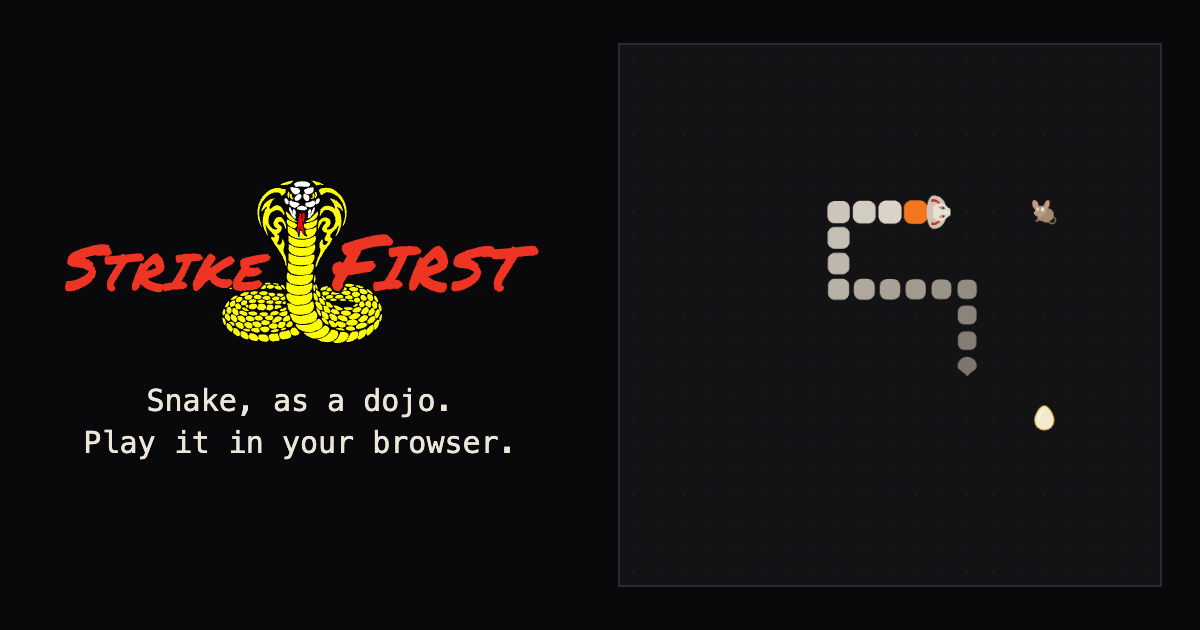
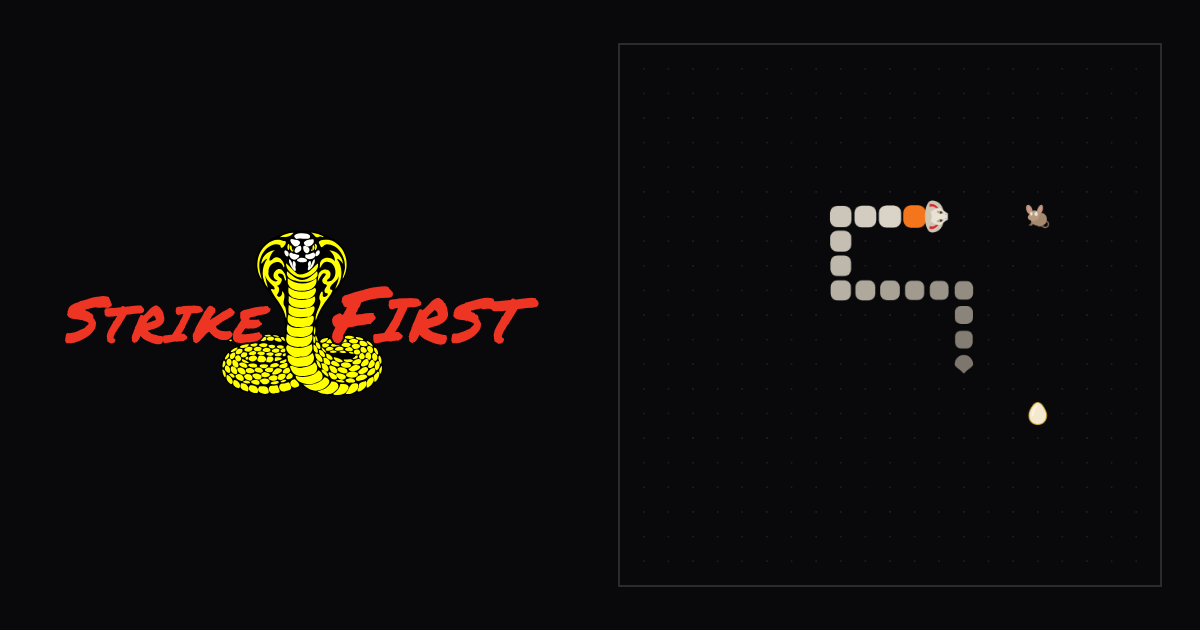
Give a challenge its own link preview, and the game a sharper one
A pasted link showed the same card whether it was the game or a dare, and
a link preview is read from the page's tags without running it, so the
game's own page can never tell the two apart. Challenge links now go
through challenge/, a page that carries the challenge card and forwards
here with the same ?vs=. A bare ?vs= link still opens a challenge, so
links already sent keep working.

The message beside it names the dojo you fight for, since the rivalry is
the reason to click; it comes from this device rather than the run on the
board, because a share sheet has to open straight from the press and a
fetch first would lose that. The card's image loses its tagline: the words
under it said the same thing, and at the size a phone shows a card the
line was too small to read.

Copy and artwork on screens that already exist, so v1.0.3 is a patch.

diff --git a/index.html b/index.html
@@ -13,13 +13,13 @@
 <link rel="apple-touch-icon" href="apple-touch-icon.png">
 <meta property="og:type" content="website">
 <meta property="og:site_name" content="Strike First">
-<meta property="og:title" content="Strike First — Browser Snake Game">
-<meta property="og:description" content="Play snake free in your browser, with a dojo twist. Eat eggs, chase mice, dodge rotten ones and earn your belt.">
+<meta property="og:title" content="🐍 Strike First: Karate snake game in your browser">
+<meta property="og:description" content="Pick a dojo, chase rewards, earn your belt, challenge friends.">
 <meta property="og:url" content="https://karinnielsen.github.io/strike-first/">
 <meta property="og:image" content="https://karinnielsen.github.io/strike-first/og-image.png">
 <meta property="og:image:width" content="1200">
 <meta property="og:image:height" content="630">
-<meta property="og:image:alt" content="The Strike First cobra crest and the line &quot;Snake, as a dojo. Play it in your browser.&quot; beside a game board, with a snake wearing an orange belt, a mouse and an egg.">
+<meta property="og:image:alt" content="The Strike First cobra crest beside a game board, with a snake wearing an orange belt, a mouse and an egg.">
 <meta name="twitter:card" content="summary_large_image">
 <style>
   :root {
@@ -1335,7 +1335,7 @@ const ROWS = (canvas.height - 2 * BOARD_BLEED) / CELL;    // 21 rows down
 // Single source of truth for the version. Bump this, add a CHANGELOG entry,
 // update the Current version line in README.md, and tag the commit - those
 // four go together, always.
-const VERSION = '1.0.2';
+const VERSION = '1.0.3';
 // The version line also says which board you are on whenever it isn't the
 // real one. Bone rather than the dim grey around it, because that carries
 // information: it is the difference between a score that counts and one that
@@ -5055,10 +5055,16 @@ function showBoard() {
 // The link is built from wherever the page is served, so a link made on a
 // local copy opens the local copy, and its sandbox board. An id the board
 // doesn't have - it was wiped - just means no challenge.
+//
+// The link goes through challenge/, a page that only carries the challenge's
+// preview card and forwards here with the same ?vs=. A link preview is read
+// from the page's tags without running it, so this page's tags could never
+// tell a challenge from the game. A bare ?vs= link still works.
 
 // The link for a run. Pure.
 function challengeUrl(where, runId) {
-  return `${where.origin}${where.pathname}?vs=${runId}`;
+  const folder = where.pathname.replace(/[^/]*$/, '');
+  return `${where.origin}${folder}challenge/?vs=${runId}`;
 }
 
 // The run a link points at, or null. Pure.
@@ -5126,9 +5132,13 @@ function showChallenge() {
 // What a challenge says, with the number in it: a bare link pasted into a
 // chat gave no reason to click, and the link's preview is the same card
 // for every run. The run a challenge points at is your latest signed one,
-// which is always your hi-score (see verdictItems). Pure.
-function challengeText(score) {
-  return `I scored ${score} in Strike First, a karate Snake game. Beat it.`;
+// which is always your hi-score (see verdictItems). The dojo is the one
+// you fight for now, taken from this device rather than read back from the
+// run, since a share sheet has to open straight from the press. The preview
+// card beside it names the game, so the text doesn't. Pure.
+function challengeText(score, dojo) {
+  const side = DOJO_NAMES[dojo] ? ` for ${DOJO_NAMES[dojo]}` : '';
+  return `I scored ${score}${side}. Beat it.`;
 }
 
 // Hand a link on. A touch screen gets the share sheet, which is where
@@ -5190,7 +5200,7 @@ document.addEventListener('pointerdown', hideToast, true);
 async function sendChallenge() {
   if (!lastRunId) return;
   const url = challengeUrl(location, lastRunId);
-  const text = challengeText(best);
+  const text = challengeText(best, chosenDojo);
   const result = await shareLink(url, text, `${text} ${url}`);
   if (result === 'failed') return window.prompt('Copy this link:', `${text} ${url}`);
   if (result === 'copied') showToast('Link copied.', 'Paste it to a friend.');

diff --git a/test.js b/test.js
@@ -2990,15 +2990,27 @@ describe('challenge a friend, UNR-116', () => {
     is(game.MENU_LABELS.challenge, 'Challenge a friend', 'says what it does');
   });
 
-  test('the link points at the run, from wherever the page is served', () => {
+  test('the link points at the run, through the challenge page', () => {
     is(game.challengeUrl({ origin: 'https://karinnielsen.github.io', pathname: '/strike-first/' }, 42),
-       'https://karinnielsen.github.io/strike-first/?vs=42', 'published');
+       'https://karinnielsen.github.io/strike-first/challenge/?vs=42', 'published');
     is(game.challengeUrl({ origin: 'http://localhost:8765', pathname: '/' }, 7),
-       'http://localhost:8765/?vs=7', 'local, so the sandbox board');
+       'http://localhost:8765/challenge/?vs=7', 'local, so the sandbox board');
+    is(game.challengeUrl({ origin: 'http://localhost:8765', pathname: '/index.html' }, 7),
+       'http://localhost:8765/challenge/?vs=7', 'served as a file name, not a folder');
   });
 
-  test('a challenge says the score, so a pasted link has a reason to click', () => {
-    is(game.challengeText(42), 'I scored 42 in Strike First, a karate Snake game. Beat it.', 'text');
+  test('a challenge says the score and the dojo it was scored for', () => {
+    is(game.challengeText(42, 'cobra-kai'), 'I scored 42 for Cobra Kai. Beat it.', 'text');
+    is(game.challengeText(42, null), 'I scored 42. Beat it.', 'no dojo chosen yet');
+    is(game.challengeText(42, 'no-such-dojo'), 'I scored 42. Beat it.', 'not a dojo');
+  });
+
+  test('the challenge page carries its own preview card and forwards', () => {
+    const page = fs.readFileSync(path.join(__dirname, 'challenge', 'index.html'), 'utf8');
+    is(/property="og:title" content="[^"]*challenged/.test(page), true, 'a title of its own');
+    is(/property="og:title" content="[^"]*Karate snake game/.test(page), false, 'not the game\'s title');
+    is(page.includes("location.replace('../' + location.search"), true, 'forwards, keeping ?vs=');
+    is(page.includes('name="robots" content="noindex"'), true, 'kept out of search');
   });
 
   test('a link is read back to a run id, or to nothing', () => {

diff --git a/challenge/index.html b/challenge/index.html
@@ -1,0 +1,35 @@
+<!DOCTYPE html>
+<html lang="en">
+<head>
+<meta charset="utf-8">
+<meta name="viewport" content="width=device-width, initial-scale=1">
+<title>Strike First: You've been challenged!</title>
+<!-- Where a challenge link lands. It exists for its preview card: a chat
+     app reads these tags without running the page, and the game's own page
+     can't tell a challenge from any other visit. A visitor is forwarded to
+     the game with the same ?vs=, which is what loads the challenge. -->
+<meta name="robots" content="noindex">
+<meta name="theme-color" content="#09090b">
+<link rel="icon" href="../favicon.svg" type="image/svg+xml">
+<meta property="og:type" content="website">
+<meta property="og:site_name" content="Strike First">
+<meta property="og:title" content="🐍 Strike First: You've been challenged!">
+<meta property="og:description" content="Pick a dojo, beat their score, earn your belt, challenge them back.">
+<meta property="og:url" content="https://karinnielsen.github.io/strike-first/challenge/">
+<meta property="og:image" content="https://karinnielsen.github.io/strike-first/og-image.png">
+<meta property="og:image:width" content="1200">
+<meta property="og:image:height" content="630">
+<meta property="og:image:alt" content="The Strike First cobra crest beside a game board, with a snake wearing an orange belt, a mouse and an egg.">
+<meta name="twitter:card" content="summary_large_image">
+<script>location.replace('../' + location.search + location.hash);</script>
+<style>
+  body { margin: 0; background: #09090b; color: #ece6da;
+         font: 15px ui-monospace, SFMono-Regular, Menlo, monospace; }
+  a { color: inherit; }
+  p { margin: 40vh 0 0; text-align: center; }
+</style>
+</head>
+<body>
+<p><a href="../">Play Strike First</a></p>
+</body>
+</html>

diff --git a/README.md b/README.md
@@ -14,7 +14,8 @@
   can land mid-run.
 - **Dojos.** Fight for Cobra Kai, Miyagi-Do or Eagle Fang. Every run counts
   for you and your dojo on the All Valley Rankings.
-- **Challenge a friend** with a link. Their score lands on the same board.
+- **Challenge a friend** with a link that says who they are up against. Their
+  score lands on the same board.
 - **Sound.** Arcade effects, and an original soundtrack that stays off until
   you ask for it.
 - **Keyboard or tablet.** Swipe to steer on a touch screen. Phones get a page
@@ -76,7 +77,7 @@ PRs welcome — start with an
 [open starter issue](https://github.com/karinnielsen/strike-first/labels/good%20first%20issue).
 Local copies write to a sandbox, not the live board.
 
-Current version: **v1.0.2** — see [CHANGELOG.md](CHANGELOG.md).
+Current version: **v1.0.3** — see [CHANGELOG.md](CHANGELOG.md).
 
 ## Credits and licence
 

diff --git a/CHANGELOG.md b/CHANGELOG.md
@@ -2,6 +2,14 @@
 
 What changed in each release of Strike First.
 
+## [1.0.3] — 2026-09-22
+
+### Changed
+- A challenge link now looks like a challenge: its own preview card, and a
+  message naming the dojo you fight for.
+- The game's own link leads with what it is and what you do in it.
+- Killed the tagline on the preview image. The crest and the board say it.
+
 ## [1.0.2] — 2026-09-22
 
 ### Fixed
